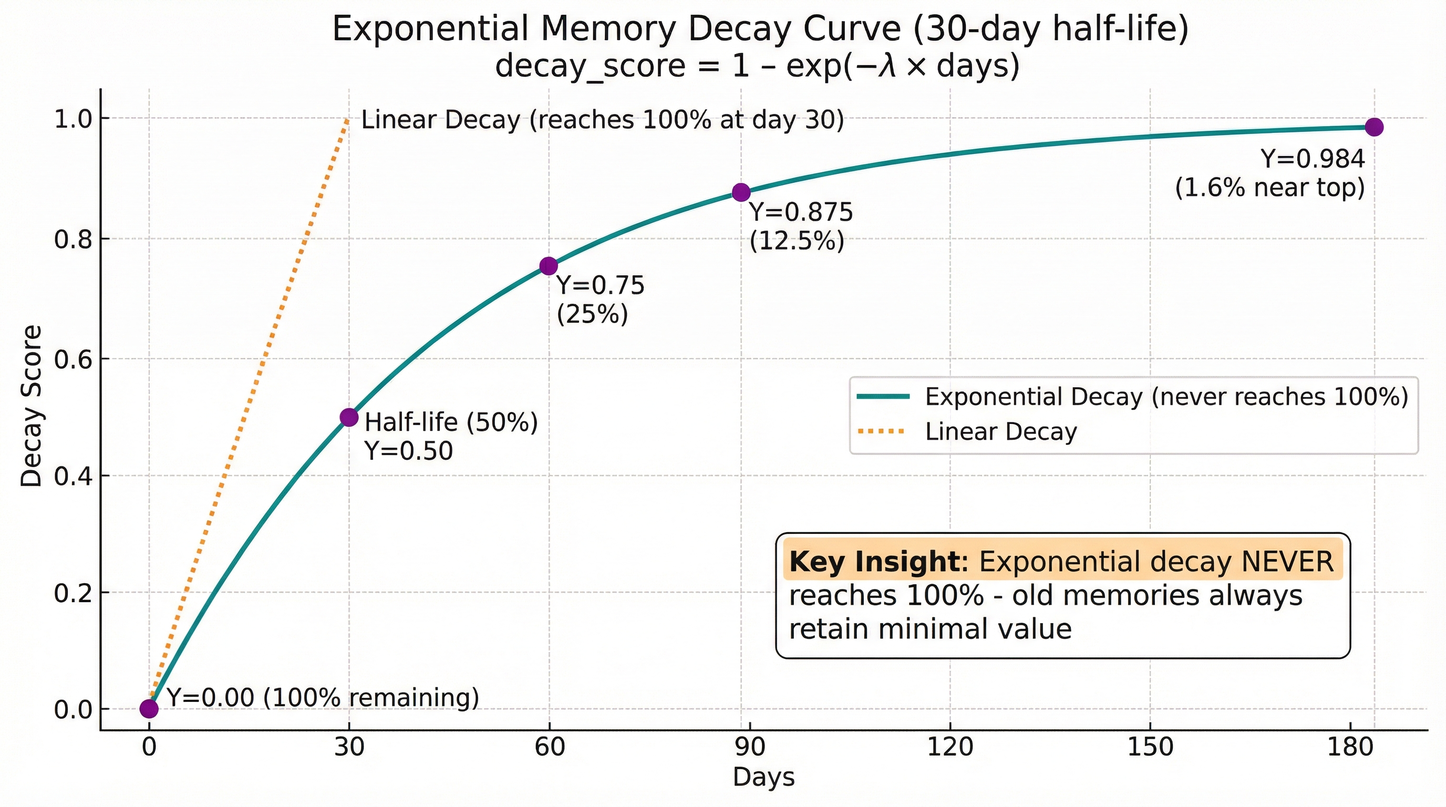
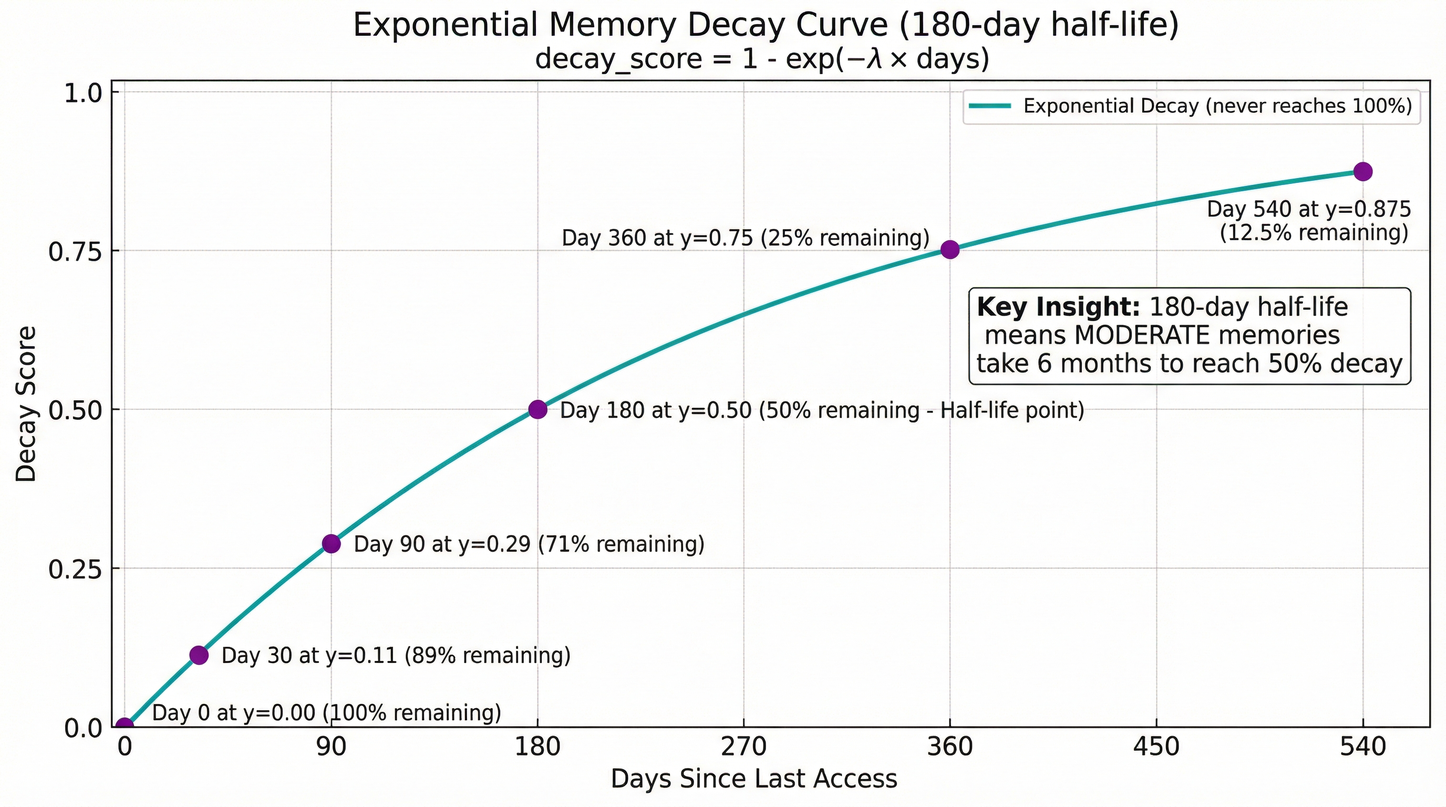
docs: update all documentation for 180-day half-life configuration
Comprehensive documentation update reflecting the new 180-day base half-life
configuration (increased from 30 days) based on research into production
knowledge systems and memory retention patterns.

Updated files:

1. docs/usage/memory-decay.md
   - Updated exponential decay example with new day values
   - Updated stability impact table with new half-life calculations
   - Updated linear decay comparison (0.56% per day vs 3.3%)
   - Updated advanced topics section with new base value

2. docs/reference/configuration.md
   - Updated half-life configuration example: 30 → 180 days
   - Updated stability multiplier examples with new calculations

3. docs/assets/images/decay-exponential-curve.png
   - Regenerated infographic showing 180-day half-life curve
   - Key points now at Day 30 (11%), Day 90 (29%), Day 180 (50%)

4. docs/assets/images/decay-exponential-curve.webp
   - Optimized WebP version of new infographic (170KB)

Impact on MODERATE memories (stability=3):
- Day 30: decay_score 0.50 → 0.11 (much better retention)
- Day 90: decay_score 0.875 → 0.29 (stays ACTIVE longer)
- Day 180: decay_score 0.984 → 0.50 (half-life point)
- Day 540: decay_score ~0.875 (significant decay after 18 months)

New stability adjustments:
- VOLATILE (1): 60 days half-life
- LOW (2): 120 days half-life
- MODERATE (3): 180 days half-life
- HIGH (4): 240 days half-life
- PERMANENT (5): Never decays

Aligns with Constitution Principle VIII: Dual-Audience Documentation
[…]

diff --git a/docs/usage/memory-decay.md b/docs/usage/memory-decay.md
@@ -111,26 +111,27 @@ where λ = ln(2) / half_life_days
 
 **Why exponential?**
 
-- **Linear decay** would lose value at constant rate (e.g., 3.3% per day), reaching 100% after 30 days
+- **Linear decay** would lose value at constant rate (e.g., 0.56% per day), reaching 100% after 180 days
 - **Exponential decay** follows natural patterns:
   - Radioactive decay
   - Drug elimination from the body
   - Human memory forgetting (Ebbinghaus curve)
   - Information relevance over time
 
-!!! example "Exponential vs Linear Decay (30-day half-life)"
+!!! example "Exponential vs Linear Decay (180-day half-life)"
 
-    **Linear decay** (constant 3.3% per day):
+    **Linear decay** (constant 0.56% per day):
     - Day 0: 0% decay
-    - Day 15: 50% decay
-    - Day 30: 100% decay (completely gone)
+    - Day 90: 50% decay
+    - Day 180: 100% decay (completely gone)
 
     **Exponential decay** (our implementation):
     - Day 0: 0% decay
-    - Day 30: 50% decay (half-life)
-    - Day 60: 75% decay
-    - Day 90: 87.5% decay
-    - Day 180: 98.4% decay
+    - Day 30: 11% decay
+    - Day 90: 29% decay
+    - Day 180: 50% decay (half-life)
+    - Day 360: 75% decay
+    - Day 540: 87.5% decay
     - **Never truly reaches 100%**
 
 ![Exponential Decay Curve](../assets/images/decay-exponential-curve.png)
@@ -153,10 +154,10 @@ The stability level adjusts the half-life:
 
 | Stability | Half-Life | Days to 75% Decay | Days to 87.5% Decay |
 |-----------|----------|-------------------|----------------------|
-| 1 (VOLATILE) | 15 days | 30 | 45 |
-| 2 (LOW) | 14 days | 28 | 42 |
-| 3 (MODERATE) | 30 days | 60 | 90 |
-| 4 (HIGH) | 90 days | 180 | 270 |
+| 1 (VOLATILE) | 60 days | 120 | 180 |
+| 2 (LOW) | 120 days | 240 | 360 |
+| 3 (MODERATE) | 180 days | 360 | 540 |
+| 4 (HIGH) | 240 days | 480 | 720 |
 | 5 (PERMANENT) | ∞ | Never | Never (λ = 0) |
 
 !!! tip "Key Insight"
@@ -545,15 +546,15 @@ For specialized use cases, you can implement custom decay logic:
 
 #### Half-life adjustment
 
-- Base half-life: 30 days (configurable)
+- Base half-life: 180 days (configurable)
 - Stability factor: Multiplier based on stability level
 
 **Stability multiplier examples:**
 
 The stability level adjusts the base half-life:
 
-- Stability 1 (VOLATILE): 0.5× half-life (15 days)
-- Stability 3 (MODERATE): 1.0× half-life (30 days)
+- Stability 1 (VOLATILE): 0.33× half-life (60 days)
+- Stability 3 (MODERATE): 1.0× half-life (180 days)
 - Stability 5 (PERMANENT): ∞ half-life (never decays)
 
 **See implementation:** `docker/patches/memory_decay.py` - `calculate_half_life()`

diff --git a/docs/reference/configuration.md b/docs/reference/configuration.md
@@ -595,12 +595,12 @@ Base decay rate (adjusted by stability factor):
 
 ```yaml
 decay:
-  base_half_life_days: 30  # Base half-life in days (1-365)
+  base_half_life_days: 180  # Base half-life in days (1-365)
 ```
 
 **How it works:**
-- Stability 1 (VOLATILE): 0.5× half-life (15 days)
-- Stability 3 (MODERATE): 1.0× half-life (30 days)
+- Stability 1 (VOLATILE): 0.33× half-life (60 days)
+- Stability 3 (MODERATE): 1.0× half-life (180 days)
 - Stability 5 (PERMANENT): ∞ half-life (never decays)
 
 Higher values = slower decay. See [Decay Score](../usage/memory-decay.md#decay-score-00-10) for details.
